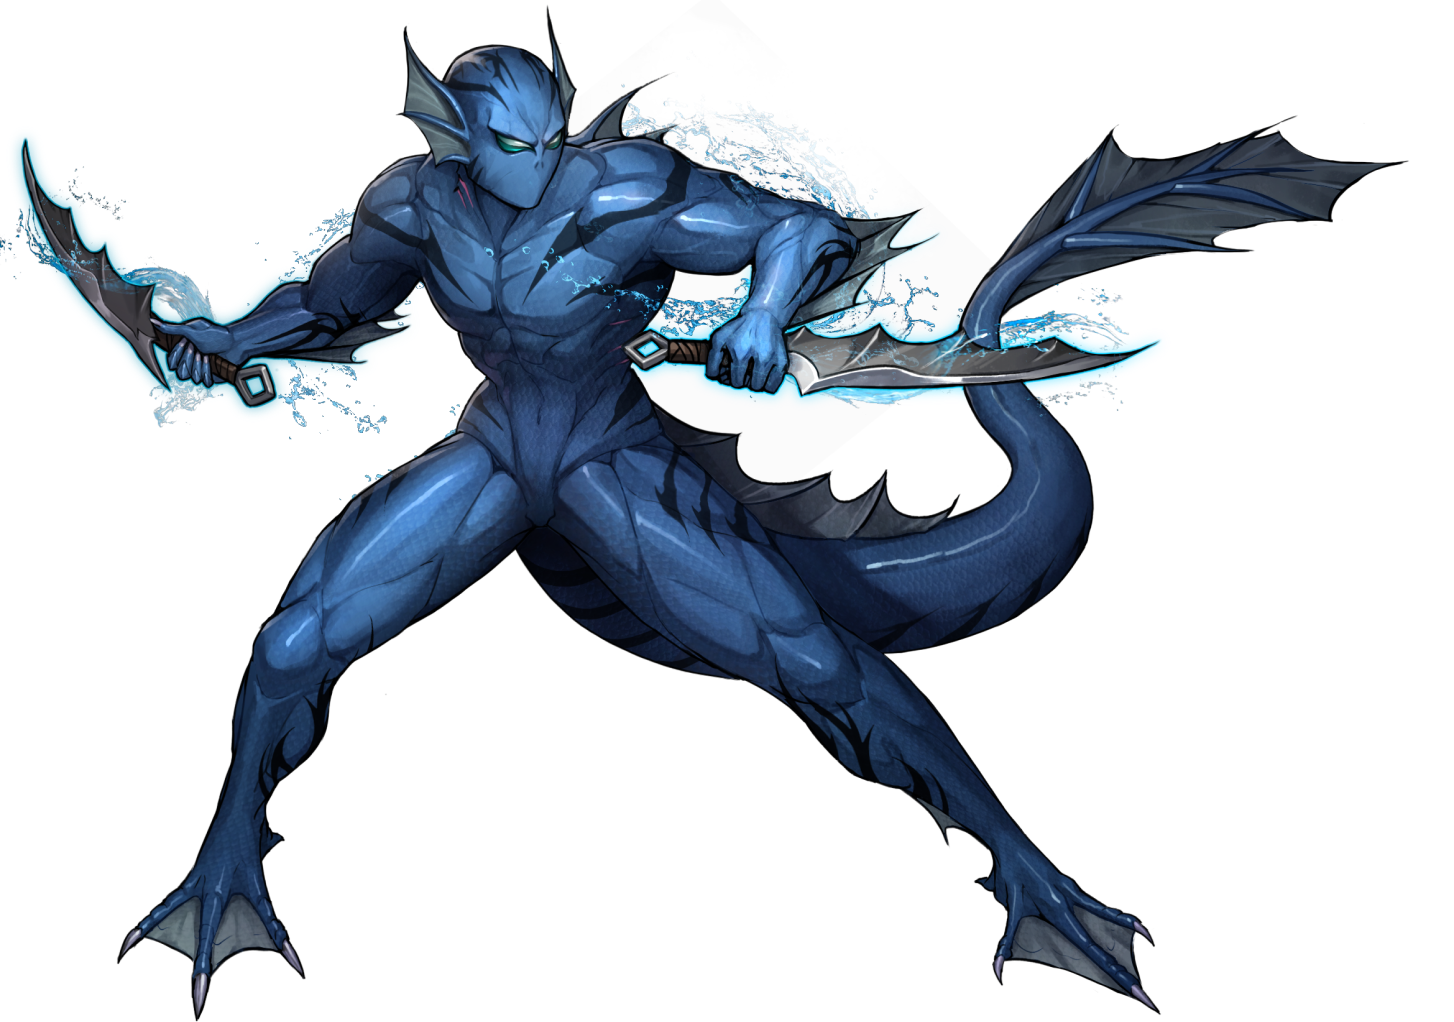
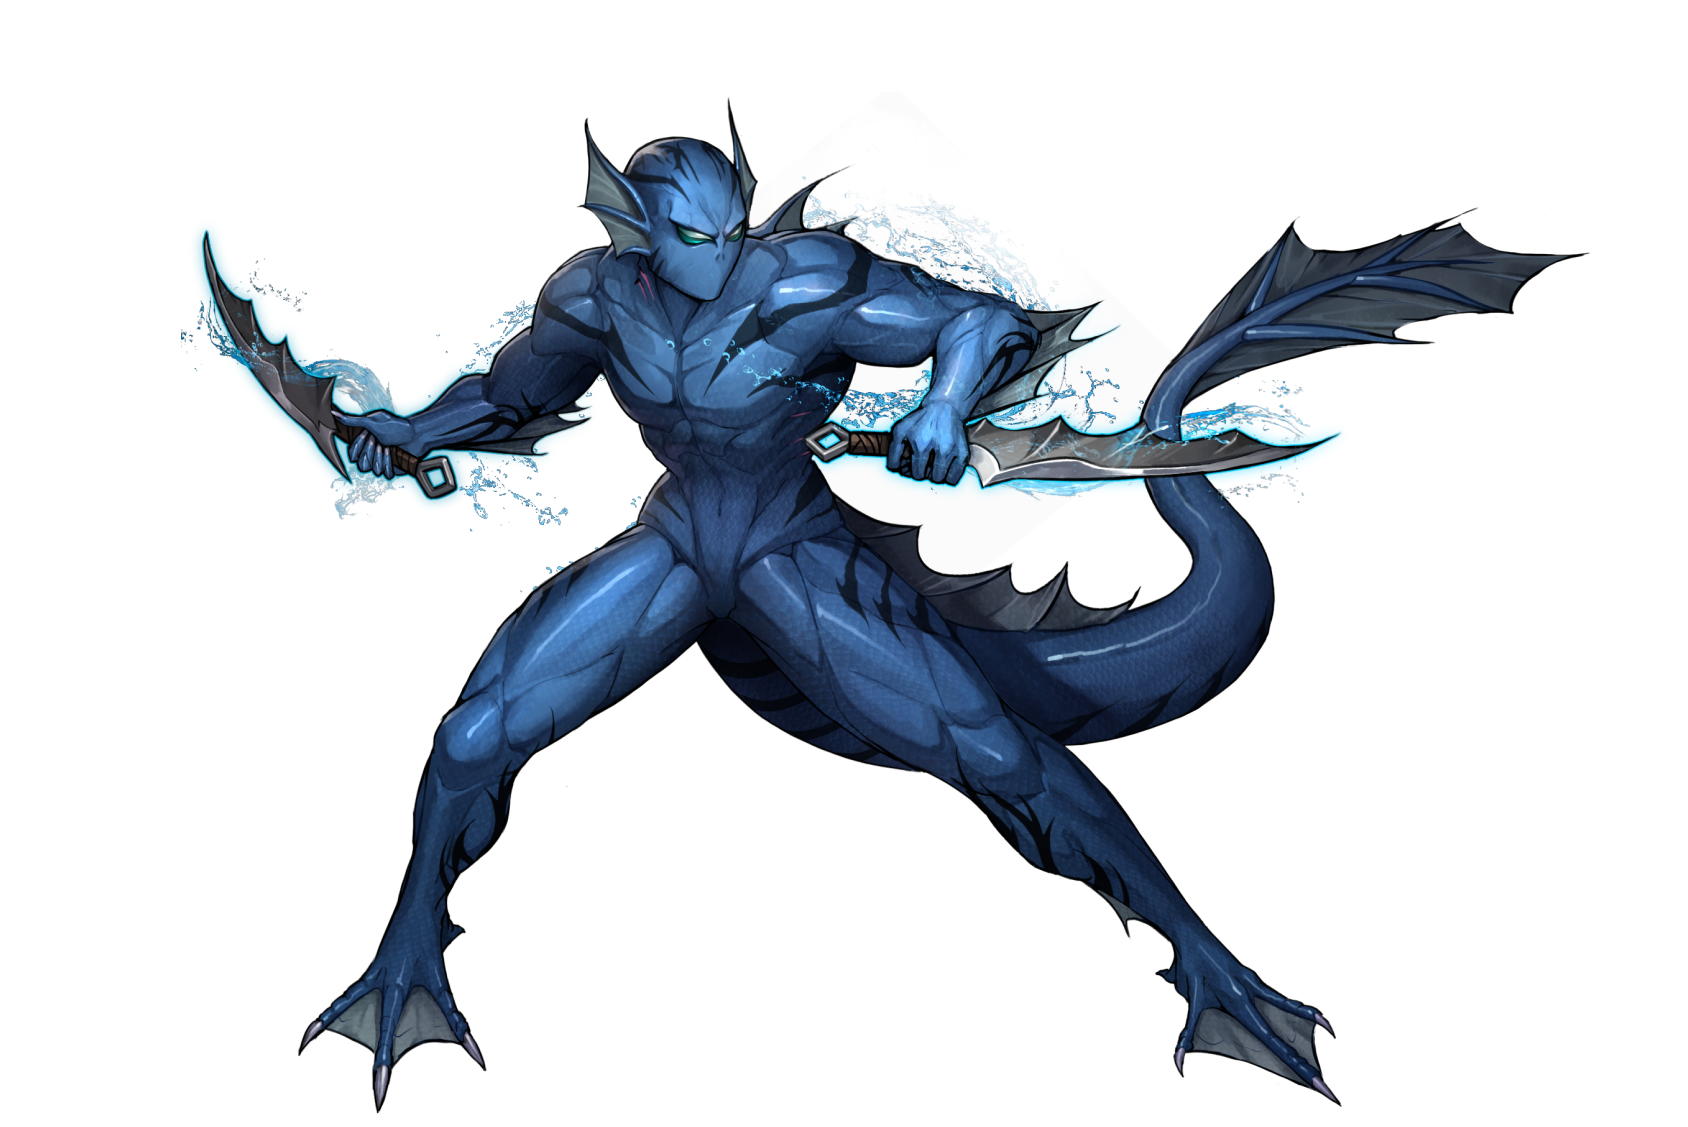
add tribe effect

diff --git a/components/about_game/Tribe.tsx b/components/about_game/Tribe.tsx
@@ -12,11 +12,13 @@ import Ethern from '../../assets/tribe/ethern.png'
 import Byzan from '../../assets/tribe/byzan.png'
 import Lunarian from '../../assets/tribe/lunarian.png'
 import Solis from '../../assets/tribe/solis.png'
+import Nakamatose from '../../assets/tribe/nakamatos-e.png'
+import Etherne from '../../assets/tribe/ethern-e.png'
+import Byzane from '../../assets/tribe/byzan-e.png'
+import Lunariane from '../../assets/tribe/lunarian-e.png'
+import Solise from '../../assets/tribe/solis-e.png'
 import { ArrowLeft, ArrowRight } from './Arrow'
-import { AnimatePresence, motion } from 'framer-motion'
 import { useEffect, useState } from 'react'
-import { title } from 'process'
-import { CarouselProvider, Slide, Slider } from 'pure-react-carousel'
 
 class TribeClass {
   title: string
@@ -228,12 +230,21 @@ function TribeNakamatos() {
       />
 
       <div className="absolute lg:top-4 lg:bottom-0 lg:-left-20 inset-0 mx-auto pt-16 lg:pt-0 lg:mx-0 max-w-[21rem] lg:max-w-none lg:w-[29rem] floating">
-        <Image
-          src={Nakamatos}
-          alt="Nakamatos"
-          key="NakamatosImage"
-          priority={true}
-        />
+        <div className="relative">
+          <Image
+            src={Nakamatose}
+            alt="Nakamatose"
+            key="NakamatosImagee"
+            priority={true}
+            className="absolute inset-0 fade"
+          />
+          <Image
+            src={Nakamatos}
+            alt="Nakamatos"
+            key="NakamatosImage"
+            priority={true}
+          />
+        </div>
       </div>
     </div>
   )
@@ -252,7 +263,16 @@ function TribeEthern() {
       />
 
       <div className="absolute inset-0 lg:top-0 lg:bottom-0 lg:-left-28 mx-auto lg:mx-0 pt-16 lg:pt-0 max-w-[24rem] lg:max-w-none lg:w-[31rem] floating2">
-        <Image src={Ethern} alt="Ethern" key="EthernImage" priority={true} />
+        <div className="relative">
+          <Image
+            src={Etherne}
+            alt="Etherne"
+            key="EthernImagee"
+            priority={true}
+            className="absolute inset-0 fade"
+          />
+          <Image src={Ethern} alt="Ethern" key="EthernImage" priority={true} />
+        </div>
       </div>
     </div>
   )
@@ -272,7 +292,16 @@ function TribeByzan() {
       />
 
       <div className="absolute inset-0 lg:-top-10 lg:bottom-0 lg:-left-44 lg:w-[35rem] mx-auto lg:mx-0 pt-14 lg:pt-0 max-w-[24rem] lg:max-w-none floating3">
-        <Image src={Byzan} alt="Byzan" key="ByzanImage" priority={true} />
+        <div className="relative">
+          <Image
+            src={Byzane}
+            alt="Byzane"
+            key="ByzanImagee"
+            priority={true}
+            className="absolute inset-0 fade"
+          />
+          <Image src={Byzan} alt="Byzan" key="ByzanImage" priority={true} />
+        </div>
       </div>
     </div>
   )
@@ -292,7 +321,16 @@ function TribeSolis() {
       <div className="lg:w-[30rem]" />
 
       <div className="absolute inset-0 lg:left-auto lg:top-28 lg:bottom-0 lg:-right-44 w-full lg:w-[43rem] mx-auto lg:mx-0 pt-16 lg:pt-0 max-w-[36rem] lg:max-w-none floating">
-        <Image src={Solis} alt="Solis" key="SolisImage" priority={true} />
+        <div className="relative">
+          <Image
+            src={Solise}
+            alt="Solise"
+            key="SolisImagee"
+            priority={true}
+            className="absolute inset-0 fade"
+          />
+          <Image src={Solis} alt="Solis" key="SolisImage" priority={true} />
+        </div>
       </div>
     </div>
   )
@@ -312,12 +350,21 @@ function TribeLunarian() {
       />
 
       <div className="absolute inset-0 lg:-top-5 lg:bottom-0 lg:-left-36 lg:w-[34rem] mx-auto lg:mx-0 pt-16 lg:pt-0 max-w-[24rem] lg:max-w-none floating2">
-        <Image
-          src={Lunarian}
-          alt="Lunarian"
-          key="LunarianImage"
-          priority={true}
-        />
+        <div className="relative">
+          <Image
+            src={Lunariane}
+            alt="Lunariane"
+            key="LunarianImagee"
+            priority={true}
+            className="absolute inset-0 fade"
+          />
+          <Image
+            src={Lunarian}
+            alt="Lunarian"
+            key="LunarianImage"
+            priority={true}
+          />
+        </div>
       </div>
     </div>
   )

diff --git a/styles/globals.css b/styles/globals.css
@@ -181,7 +181,7 @@ a {
 
   .floating-token-small2 {
     animation: 4s ease-in-out 0.33s infinite normal none running floatinani;
-    animation-delay: 3s;
+    animation-delay: -1s;
   }
 }
 
@@ -232,7 +232,7 @@ a {
 
 .floating-home2 {
   animation: 6s ease-in-out 0.33s infinite normal none running floatinanihome2;
-  animation-delay: 4s;
+  animation-delay: -2s;
 }
 
 @keyframes floatinanihome2 {
@@ -249,7 +249,7 @@ a {
 
 .floating-home3 {
   animation: 6s ease-in-out 0.33s infinite normal none running floatinanihome3;
-  animation-delay: 3s;
+  animation-delay: -3s;
 }
 
 @keyframes floatinanihome3 {
@@ -261,5 +261,25 @@ a {
   }
   100% {
     transform: translate(0px, 0px);
+  }
+}
+
+.fade {
+  animation: 4s ease-in-out 0.33s infinite normal none running fade;
+  animation-delay: -1s;
+}
+
+@keyframes fade {
+  0% {
+    transform: scale(100%);
+    opacity: 0.6;
+  }
+  50% {
+    transform: scale(103%);
+    opacity: 1;
+  }
+  100% {
+    transform: scale(100%);
+    opacity: 0.6;
   }
 }
